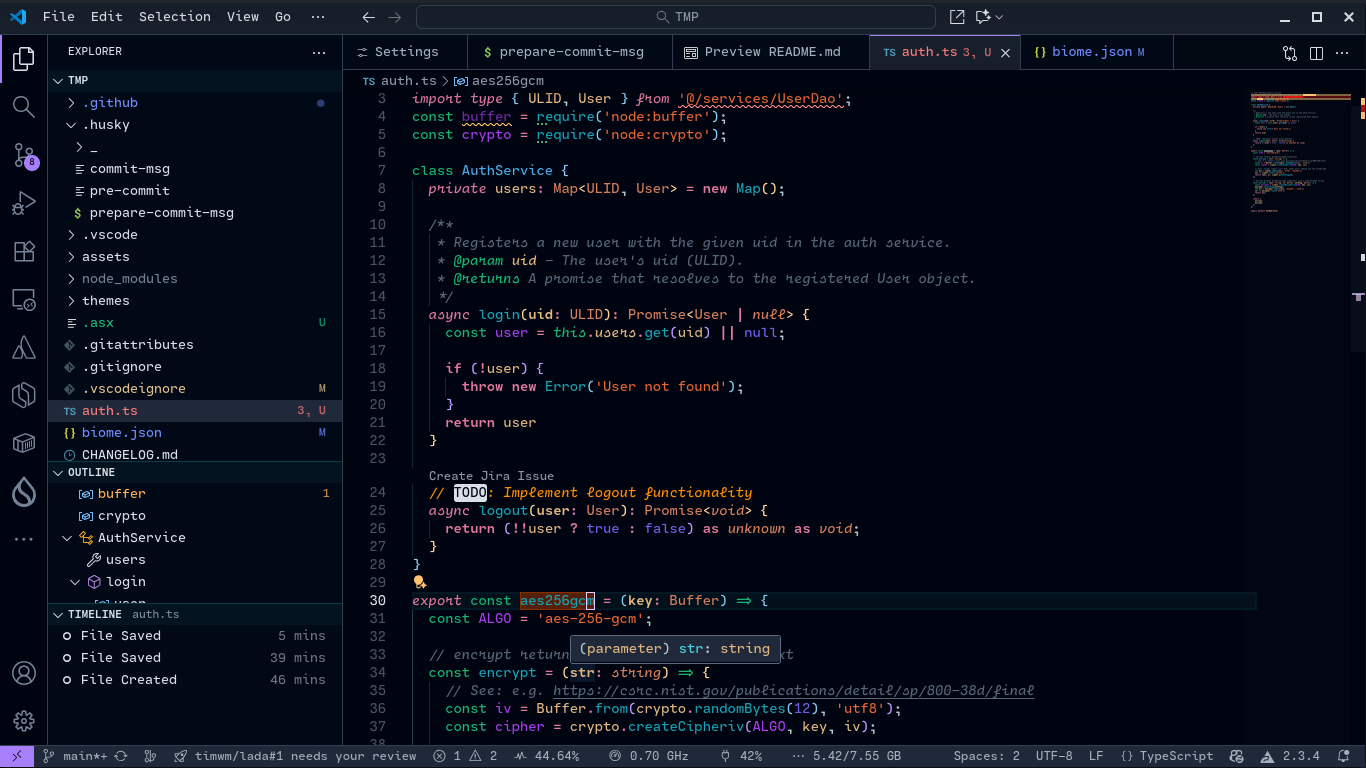
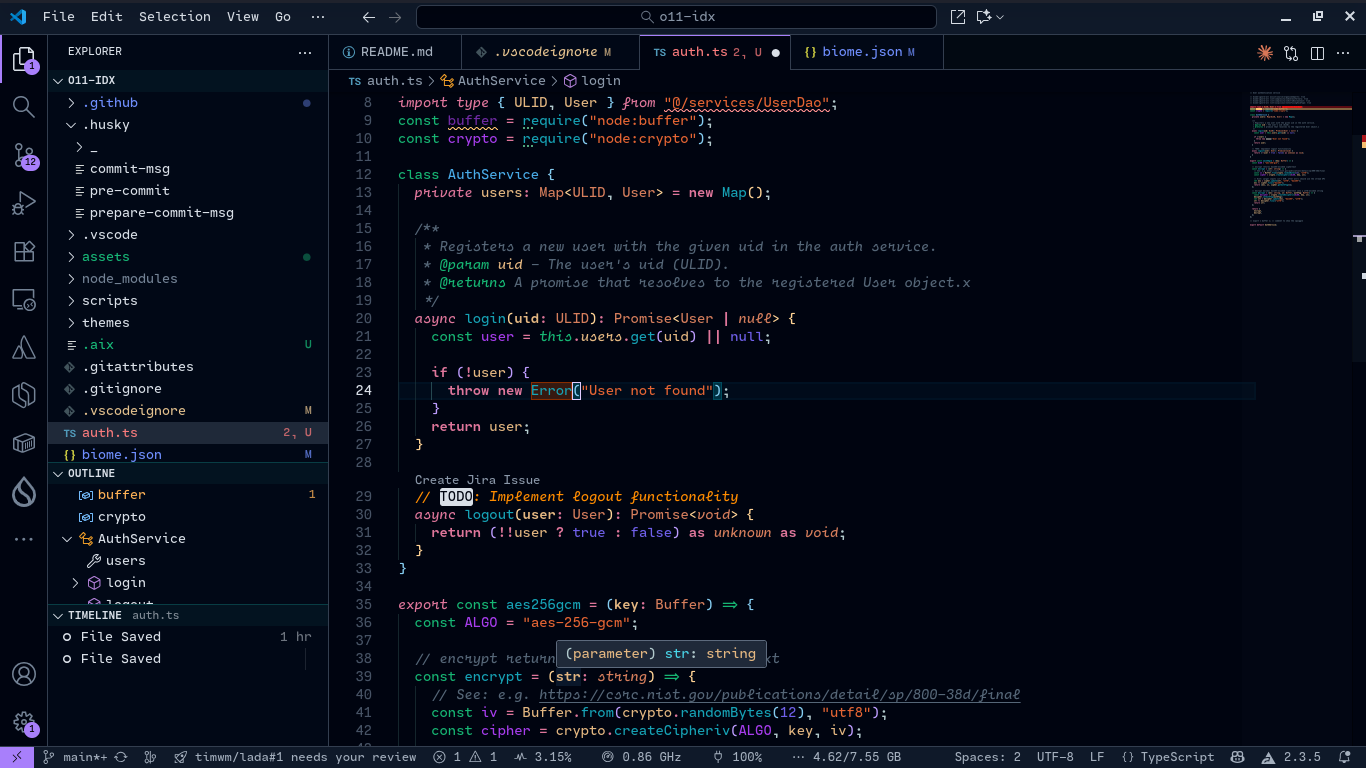
chore: update showcasing images & prep for release 2.0.11
Release-As: 2.0.11

diff --git a/assets/showcase/auth.ts b/assets/showcase/auth.ts
@@ -1,0 +1,68 @@
+// User authentication service
+
+// biome-ignore-all assist/source/organizeImports: true
+// biome-ignore-all lint/complexity/noUselessTernary: true
+// biome-ignore-all lint/complexity/noExtraBooleanCast: true
+// biome-ignore-all lint/suspicious/noConfusingVoidType: true
+
+// @ts-expect-error: Remove this to show squiggle
+import type { ULID, User } from "@/services/UserDao";
+const buffer = require("node:buffer");
+const crypto = require("node:crypto");
+
+class AuthService {
+  private users: Map<ULID, User> = new Map();
+
+  /**
+   * Registers a new user with the given uid in the auth service.
+   * @param uid - The user's uid (ULID).
+   * @returns A promise that resolves to the registered User object.x
+   */
+  async login(uid: ULID): Promise<User | null> {
+    const user = this.users.get(uid) || null;
+
+    if (!user) {
+      throw new Error("User not found");
+    }
+    return user;
+  }
+
+  // TODO: Implement logout functionality
+  async logout(user: User): Promise<void> {
+    return (!!user ? true : false) as unknown as void;
+  }
+}
+
+export const aes256gcm = (key: Buffer) => {
+  const ALGO = "aes-256-gcm";
+
+  // encrypt returns base64-encoded ciphertext
+  const encrypt = (str: string) => {
+    // See: e.g. https://csrc.nist.gov/publications/detail/sp/800-38d/final
+    const iv = Buffer.from(crypto.randomBytes(12), "utf8");
+    const cipher = crypto.createCipheriv(ALGO, key, iv);
+
+    // Hint: Larger inputs (it's GCM, after all!) should use the stream API
+    let enc = cipher.update(str, "utf8", "base64");
+    enc += cipher.final("base64");
+    return [enc, iv, cipher.getAuthTag()];
+  };
+
+  // decrypt decodes base64-encoded ciphertext into a utf8-encoded string
+  const decrypt = (enc: string, iv: Buffer, authTag: Buffer) => {
+    const decipher = crypto.createDecipheriv(ALGO, key, iv);
+    decipher.setAuthTag(authTag);
+    let str = decipher.update(enc, "base64", "utf8");
+    str += decipher.final("utf8");
+    return str;
+  };
+
+  return {
+    encrypt,
+    decrypt,
+  };
+};
+
+export { buffer }; // commnet to show the squiggle
+
+export default AuthService;
